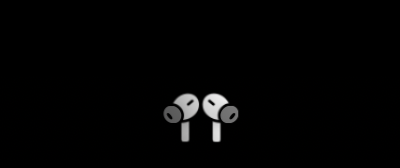
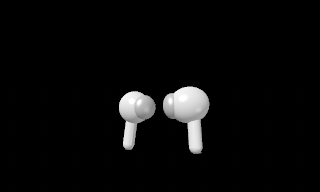
AirPods: настоящая 3D-модель на SceneKit вместо плоского значка
Наушники собраны из объёмных фигур (корпус, амбушюра, ножка, сетка),
освещены тремя источниками с бликами и вращаются под камерой на прозрачном
фоне — больше не сплющиваются при повороте.

Changed region(s): [[0.375, 0.4464, 0.6562, 0.8631]]

diff --git a/Sources/Island/AirPods3D.swift b/Sources/Island/AirPods3D.swift
@@ -1,0 +1,126 @@
+import SceneKit
+import SwiftUI
+
+/*
+ Объёмные наушники: настоящая 3D-сцена (SceneKit) со светом и бликами, на прозрачном фоне.
+ Модель собрана из простых фигур: корпус, амбушюра (у Pro), ножка, сетка микрофона.
+*/
+struct AirPods3D: NSViewRepresentable {
+    var pro = true
+
+    func makeNSView(context: Context) -> SCNView {
+        let v = PassThroughSCNView(frame: .zero)
+        v.scene = Self.makeScene(pro: pro)
+        v.backgroundColor = .clear
+        v.wantsLayer = true
+        v.layer?.isOpaque = false
+        v.antialiasingMode = .multisampling4X
+        v.rendersContinuously = true
+        v.preferredFramesPerSecond = 60
+        v.allowsCameraControl = false
+        return v
+    }
+
+    func updateNSView(_ v: SCNView, context: Context) {}
+
+    static func makeScene(pro: Bool) -> SCNScene {
+        let scene = SCNScene()
+        scene.background.contents = NSColor.clear
+
+        let pair = SCNNode()
+        let left = bud(pro: pro)
+        left.position = SCNVector3(-1.05, 0, 0)
+        left.eulerAngles = SCNVector3(0, CGFloat.pi * 0.12, -0.12)
+        let right = bud(pro: pro)
+        right.scale = SCNVector3(-1, 1, 1)
+        right.position = SCNVector3(1.05, 0, 0)
+        right.eulerAngles = SCNVector3(0, -CGFloat.pi * 0.12, 0.12)
+        pair.addChildNode(left)
+        pair.addChildNode(right)
+        pair.position = SCNVector3(0, 0.35, 0)
+        pair.runAction(.repeatForever(.rotateBy(x: 0, y: .pi * 2, z: 0, duration: 4.5)))
+        scene.rootNode.addChildNode(pair)
+
+        let cam = SCNNode()
+        cam.camera = SCNCamera()
+        cam.camera?.fieldOfView = 28
+        cam.position = SCNVector3(0, 0.25, 6.6)
+        scene.rootNode.addChildNode(cam)
+
+        func light(_ type: SCNLight.LightType, _ intensity: CGFloat, _ pos: SCNVector3, _ color: NSColor = .white) {
+            let n = SCNNode()
+            n.light = SCNLight()
+            n.light?.type = type
+            n.light?.intensity = intensity
+            n.light?.color = color
+            n.position = pos
+            if type == .directional || type == .spot { n.look(at: SCNVector3(0, 0, 0)) }
+            scene.rootNode.addChildNode(n)
+        }
+        /* мягкий общий свет, ключевой сверху-слева, слабый заполняющий справа, контровой сзади */
+        light(.ambient, 210, SCNVector3(0, 0, 0))
+        light(.directional, 780, SCNVector3(-4, 5, 5))
+        light(.omni, 220, SCNVector3(5, -2, 4), NSColor(white: 0.9, alpha: 1))
+        light(.omni, 260, SCNVector3(0, 2, -6), NSColor(red: 1, green: 0.93, blue: 0.86, alpha: 1))
+        return scene
+    }
+
+    static func gloss(_ c: NSColor, shininess: CGFloat = 0.85) -> SCNMaterial {
+        let m = SCNMaterial()
+        m.lightingModel = .blinn
+        m.diffuse.contents = c
+        m.specular.contents = NSColor(white: 1, alpha: 1)
+        m.shininess = shininess
+        return m
+    }
+
+    /* один наушник; амбушюра смотрит внутрь (+x) */
+    static func bud(pro: Bool) -> SCNNode {
+        let node = SCNNode()
+        let white = gloss(NSColor(white: 0.96, alpha: 1))
+
+        let head = SCNNode(geometry: SCNSphere(radius: 0.62))
+        head.geometry?.firstMaterial = white
+        head.scale = SCNVector3(1.0, 0.9, 0.82)
+        head.position = SCNVector3(0, 0.55, 0)
+        node.addChildNode(head)
+
+        if pro {
+            let tip = SCNNode(geometry: SCNSphere(radius: 0.4))
+            tip.geometry?.firstMaterial = gloss(NSColor(white: 0.82, alpha: 1), shininess: 0.25)
+            tip.scale = SCNVector3(0.75, 1, 1)
+            tip.position = SCNVector3(0.5, 0.58, 0.05)
+            node.addChildNode(tip)
+        } else {
+            let grille = SCNNode(geometry: SCNSphere(radius: 0.2))
+            grille.geometry?.firstMaterial = gloss(NSColor(white: 0.2, alpha: 1), shininess: 0.2)
+            grille.scale = SCNVector3(0.4, 1, 1)
+            grille.position = SCNVector3(0.58, 0.58, 0.05)
+            node.addChildNode(grille)
+        }
+
+        let sensor = SCNNode(geometry: SCNSphere(radius: 0.12))
+        sensor.geometry?.firstMaterial = gloss(NSColor(white: 0.08, alpha: 1), shininess: 0.9)
+        sensor.scale = SCNVector3(1, 0.7, 0.35)
+        sensor.position = SCNVector3(-0.15, 0.72, 0.5)
+        node.addChildNode(sensor)
+
+        let stemLen: CGFloat = pro ? 1.35 : 1.75
+        let stem = SCNNode(geometry: SCNCapsule(capRadius: 0.2, height: stemLen))
+        stem.geometry?.firstMaterial = white
+        stem.position = SCNVector3(-0.08, 0.55 - stemLen / 2 - 0.15, -0.02)
+        stem.eulerAngles = SCNVector3(0.08, 0, 0.06)
+        node.addChildNode(stem)
+
+        let mic = SCNNode(geometry: SCNCylinder(radius: 0.13, height: 0.02))
+        mic.geometry?.firstMaterial = gloss(NSColor(white: 0.55, alpha: 1), shininess: 0.4)
+        mic.position = SCNVector3(-0.08, 0.55 - stemLen - 0.13, -0.02)
+        node.addChildNode(mic)
+        return node
+    }
+}
+
+/* клики проходят сквозь 3D-вид к SwiftUI (нажатие открывает меню «Звук») */
+final class PassThroughSCNView: SCNView {
+    override func hitTest(_ point: NSPoint) -> NSView? { nil }
+}

diff --git a/Sources/Island/IslandView.swift b/Sources/Island/IslandView.swift
@@ -608,11 +608,21 @@ struct DeviceWing: View {
 struct AirPodsWing: View {
     let d: OutputDevice
     let notch: CGSize
+    @State private var shown = false
 
     var body: some View {
         VStack(spacing: 0) {
             Color.clear.frame(height: notch.height)
-            AirPodsArt(d: d).frame(height: 40)
+            if d.symbol == "airpods.max" {
+                AirPodsArt(d: d).frame(height: 40)
+            } else {
+                /* настоящая 3D-модель со светом и бликами */
+                AirPods3D(pro: d.symbol == "airpods.pro")
+                    .frame(width: 84, height: 50)
+                    .scaleEffect(shown ? 1 : 0.4)
+                    .opacity(shown ? 1 : 0)
+                    .onAppear { withAnimation(.spring(response: 0.5, dampingFraction: 0.7).delay(0.08)) { shown = true } }
+            }
             Spacer(minLength: 0)
         }
     }

diff --git a/Sources/Island/Model.swift b/Sources/Island/Model.swift
@@ -159,7 +159,7 @@ final class IslandModel: ObservableObject {
             return CGSize(width: min(max(cw, n.width + 40), n.width + 150), height: n.height + 24)
         case .flash: return CGSize(width: n.width + 2 * 64, height: n.height)
         case .device:
-            if connected?.airpods == true { return CGSize(width: n.width + 2 * 18, height: n.height + 44) }  /* только наушники под вырезом */
+            if connected?.airpods == true { return CGSize(width: max(n.width + 2 * 18, 100), height: n.height + 54) }  /* только наушники под вырезом */
             return CGSize(width: n.width + 2 * 70, height: n.height)
         case .focus: return CGSize(width: n.width + 2 * 92, height: n.height)
         case .volume: return CGSize(width: max(n.width + 70, 290), height: n.height + 30)

diff --git a/README.md b/README.md
@@ -12,7 +12,7 @@ A Dynamic Island for the Mac notch.</p>
   <sub>Claude Code работает, рядом играет музыка · Claude Code at work while music plays</sub>
 </p>
 <p align="center">
-  <img src="docs/airpods.png" width="200" alt="AirPods connected"><br>
+  <img src="docs/airpods.png" width="160" alt="AirPods connected"><br>
   <sub>AirPods подключились · AirPods connected</sub>
 </p>
 <p align="center">
@@ -29,7 +29,7 @@ A Dynamic Island for the Mac notch.</p>
 | **Claude Code** | Пока Claude работает — строка под вырезом: проект, что делается сейчас («Правлю Model.swift», «Ищу в сети…»), таймер; справа от выреза крутится искра Claude. Несколько сессий — счётчик ×N. По окончании — уведомление с итогом. |
 | **Искра Claude** | Живёт справа от выреза и в покое — значок Claude из строки меню можно убрать. |
 | **Музыка** | «Музыка» и Spotify: обложка слева от выреза. При наведении — плеер: перемешать, назад, пауза, вперёд, повтор, прогресс. Пока играет музыка, остров не растягивается от длинного текста. |
-| **AirPods** | При подключении под камерой крутятся объёмные наушники — без чёрной плашки, на прозрачном фоне. Нажатие открывает системное меню «Звук»: выход, прозрачность, шумоподавление, распознавание разговора. |
+| **AirPods** | При подключении под камерой крутятся настоящие 3D-наушники (SceneKit: свет, тени, блики) — без чёрной плашки, на прозрачном фоне. Нажатие открывает системное меню «Звук»: выход, прозрачность, шумоподавление, распознавание разговора. |
 | **Уведомления** | Уведомления любых приложений; у Telegram — с аватаркой отправителя. Клик открывает приложение. |
 | **Громкость, устройства, зарядка, фокус** | Своя плашка громкости, подключение наушников и колонок, начало зарядки, режимы фокуса. |
 | **Наведение** | Раскрывается: дата, батарея, плеер, громкость и выход звука, сессии Claude по центру. |
@@ -99,7 +99,8 @@ Swift + SwiftUI, без сторонних зависимостей, Swift Packa
 |---|---|
 | `main.swift` | Окно-панель над вырезом, мышь, меню настроек |
 | `Model.swift` | Состояние и режимы острова, музыка, батарея, события Claude |
-| `IslandView.swift` | Отрисовка: форма выреза, анимации, плеер, уведомления, AirPods |
+| `IslandView.swift` | Отрисовка: форма выреза, анимации, плеер, уведомления |
+| `AirPods3D.swift` | 3D-модель наушников (SceneKit) |
 | `Prefs.swift`, `Lang.swift` | Настройки и язык |
 | `SystemNotifications.swift` | Чтение Центра уведомлений |
 | `SoundMenu.swift` | Открытие системного меню «Звук» |
@@ -128,7 +129,7 @@ Swift + SwiftUI, без сторонних зависимостей, Swift Packa
 | **Claude Code** | While Claude works: project, current action (“Editing Model.swift”, “Web search…”) and a timer under the notch, with the Claude spark spinning on the right. Several sessions show ×N. A summary notification when it's done. |
 | **Claude spark** | Sits right of the notch even when idle, so you can hide Claude's menu bar icon. |
 | **Music** | Music and Spotify: artwork left of the notch. Hover for a player with shuffle, previous, play/pause, next, repeat and progress. Long text never stretches the island while music plays. |
-| **AirPods** | On connect, 3D earbuds spin right under the camera on a transparent background — no black pill. Click to open the system Sound menu — output, Transparency, Noise Cancellation, Conversation Awareness. |
+| **AirPods** | On connect, real 3D earbuds (SceneKit, with lighting and highlights) spin right under the camera on a transparent background — no black pill. Click to open the system Sound menu — output, Transparency, Noise Cancellation, Conversation Awareness. |
 | **Notifications** | From any app; Telegram shows the sender's avatar. Click to open the app. |
 | **Volume, devices, charging, Focus** | Custom volume HUD, headphone and speaker connections, charging, Focus modes. |
 | **Hover** | Expands: date, battery, player, volume and output, Claude sessions centered. |
